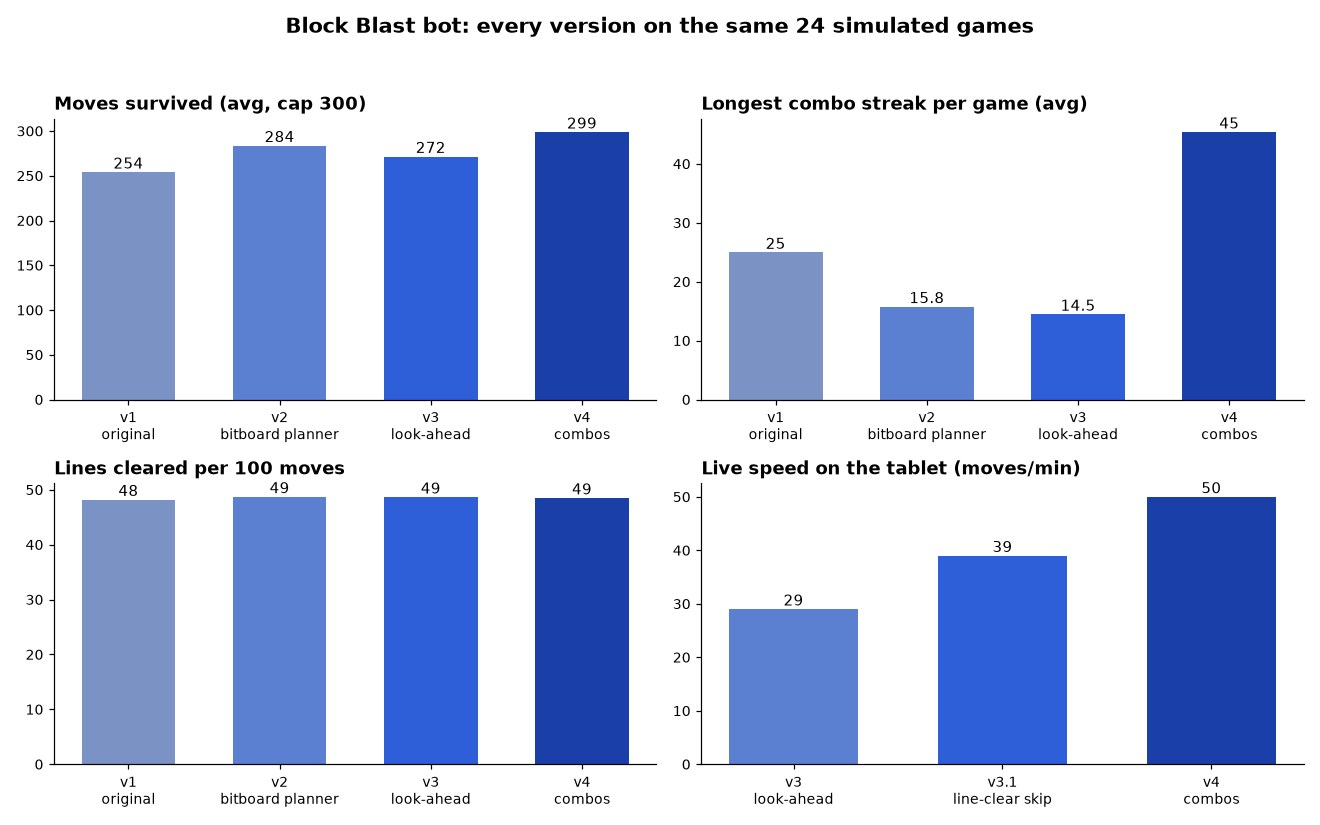
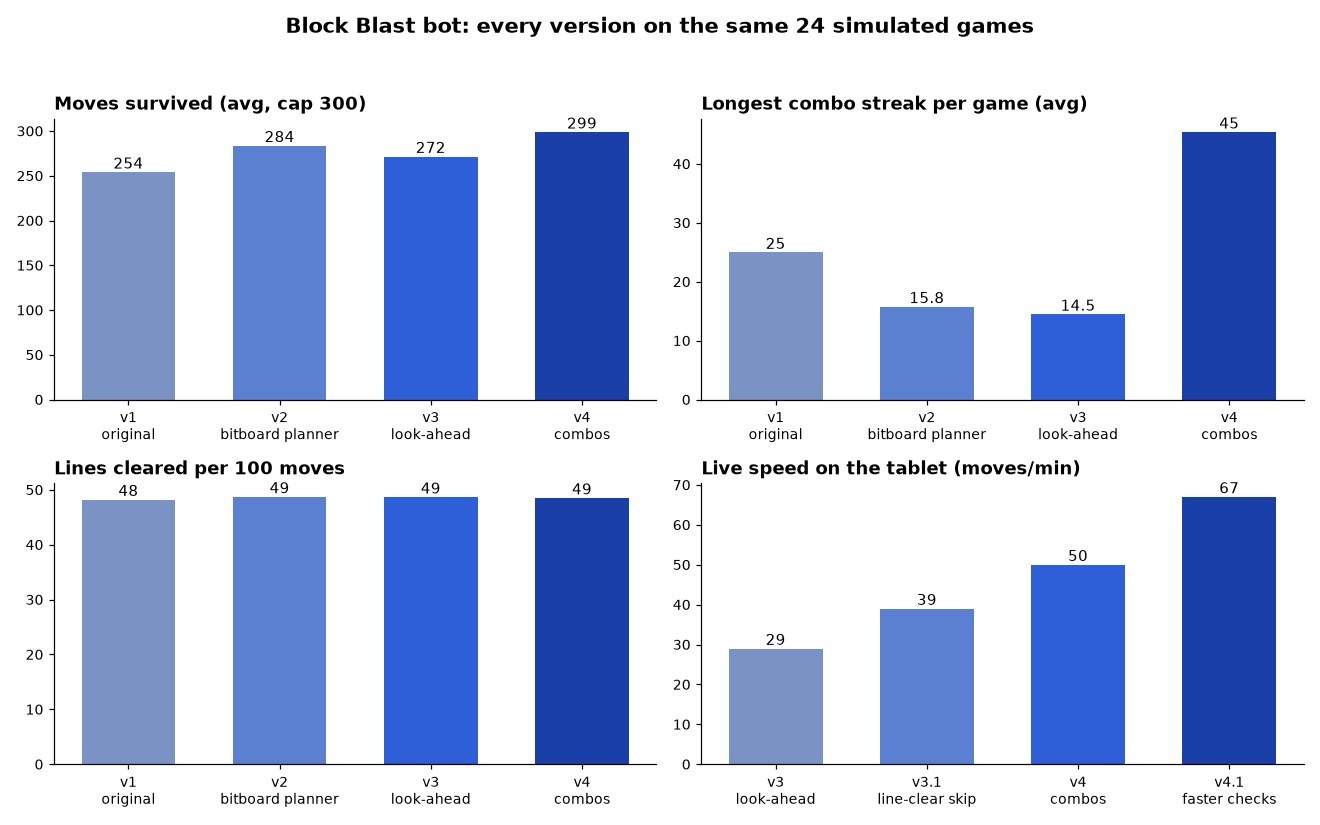
v4.1: ~67 moves/min with no pauses
- Combo pop-up text no longer makes the board look "off-screen": only the
  visible (flat) cells are compared, so those frames are accepted at once.
- No fixed sleeps on the normal path; the new tray is read from the check's
  own screenshot.
- Swipes go through one long-lived adb shell (~1 ms instead of ~50 ms).
- Log timestamps show tenths of a second.

300 live moves: 67 moves/min, no retries or misplaced pieces, longest gap
between log lines 2.8 s. Benchmark chart and README updated.

diff --git a/bot.py b/bot.py
@@ -1,4 +1,4 @@
-import argparse, gzip, struct, subprocess, time, sys, re, xml.etree.ElementTree as ET
+import argparse, gzip, queue, struct, subprocess, threading, time, sys, re, xml.etree.ElementTree as ET
 from functools import lru_cache
 import cv2
 import planner
@@ -27,6 +27,28 @@ TRACE=[]
 def adb(*args,timeout=20):
     return subprocess.run(['adb',*map(str,args)],check=True,stdout=subprocess.PIPE,stderr=subprocess.PIPE,timeout=timeout).stdout
 
+class Shell:
+    """One long-lived `adb shell` for input commands: starting a new adb process for
+    every swipe costs ~50 ms. A command that doesn't finish in time kills the shell;
+    the next command starts a fresh one."""
+    def __init__(self): self.proc=None
+    def _start(self):
+        self.proc=subprocess.Popen(['adb','shell'],stdin=subprocess.PIPE,stdout=subprocess.PIPE,
+                                   stderr=subprocess.DEVNULL,bufsize=0)
+        self.lines=queue.Queue(); out=self.proc.stdout
+        threading.Thread(target=lambda:[self.lines.put(l) for l in iter(out.readline,b'')],daemon=True).start()
+    def run(self,cmd,timeout):
+        if self.proc is None or self.proc.poll() is not None: self._start()
+        try:
+            self.proc.stdin.write((cmd+'; echo __done__\n').encode())
+            end=time.time()+timeout
+            while self.lines.get(timeout=max(.01,end-time.time())).strip()!=b'__done__': pass
+        except (queue.Empty,OSError):
+            self.proc.kill(); self.proc=None
+            raise subprocess.TimeoutExpired(cmd,timeout)
+
+SHELL=Shell()
+
 def update_layout():
     global SCALE
     out=adb('shell','dumpsys','window','displays').decode('utf-8','replace')
@@ -53,7 +75,7 @@ def _capture_fast():
     data=gzip.decompress(adb('exec-out','screencap | gzip -1',timeout=4*SLOW))
     w,h=struct.unpack('<II',data[:8]); header=len(data)-w*h*4
     if (w,h)!=(W,H) or not 12<=header<=32: raise ValueError('unexpected raw screenshot')
-    return np.frombuffer(data,np.uint8,offset=header).reshape(H,W,4)[:,:,2::-1].copy()
+    return cv2.cvtColor(np.frombuffer(data,np.uint8,offset=header).reshape(H,W,4),cv2.COLOR_RGBA2BGR)
 
 def _capture_png():
     im=cv2.imdecode(np.frombuffer(adb('exec-out','screencap','-p',timeout=6*SLOW),np.uint8),cv2.IMREAD_COLOR)
@@ -102,6 +124,21 @@ def is_board(im):
     return len(colour_groups(np.array([c for _,c,_ in stats]))[0])>=4
 
 EMPTY_COLOUR=None  # Lab colour of an empty cell in the current theme
+
+def visible_board(im,hint_empty=0):
+    """(board, visible) even when pop-up text (combo, "Great!") covers part of it:
+    visible marks the flat cells that can be trusted. (None, 0) if this isn't the board."""
+    stats=cell_stats(im)
+    flat=[i for i,(_,_,t) in enumerate(stats) if t<=12]
+    if len(flat)<44: return None,0
+    if len(colour_groups(np.array([stats[i][1] for i in flat]))[0])<4: return None,0
+    visible=sum(1<<i for i in flat)
+    return read_board(im,hint_empty&visible),visible
+
+def shows(im,board,ignore=0):
+    """Does the screen show this board (ignoring covered and still-animating cells)?"""
+    b,visible=visible_board(im,FULL&~board&~ignore)
+    return b is not None and not (b^board)&visible&~ignore
 
 def read_board(im,hint_empty=0):
     """Empty cells all share one colour; everything else is a block.
@@ -279,10 +316,14 @@ def choose(board,pieces,avoid=frozenset()):
 
 def drag_piece(sx, sy, dx, dy, ms):
     # A single continuous swipe; the game moves the held piece GAIN x the finger.
-    adb('shell','input','swipe',*to_screen(sx,sy),*to_screen(dx,dy),ms,timeout=ms/1000+8)
+    cmd='input swipe %d %d %d %d %d'%(*to_screen(sx,sy),*to_screen(dx,dy),ms)
+    try: SHELL.run(cmd,ms/1000+3*SLOW)
+    except subprocess.TimeoutExpired:
+        adb('shell',cmd,timeout=ms/1000+8)
 
 def log(*parts):
-    print(time.strftime('%H:%M:%S'),*parts,flush=True)
+    t=time.time()
+    print(time.strftime('%H:%M:%S',time.localtime(t))+'.%d'%(t%1*10),*parts,flush=True)
 
 def show(board,pieces):
     for y in range(8): print(''.join('#' if board>>(y*8+x)&1 else '.' for x in range(8)))
@@ -296,23 +337,27 @@ def settle(before, expected, placed, residual=0, timeout=3.0):
     still be animating; they are ignored. TRACE records each read for the log
     (E expected, B unchanged, o other, - off-board)."""
     end=time.time()+timeout; last=None; im=None
-    cleared=(before|placed)&~expected; outside=FULL&~cleared&~residual; seen=FULL&~residual
+    cleared=(before|placed)&~expected
     while True:
         im=capture()
-        if not is_board(im):
+        b,visible=visible_board(im,FULL&~(before|expected|residual))
+        if b is None:
             TRACE.append('-')
-            # Usually a transient effect (clear animations, combo text); only report
+            # Usually a transient effect (clear animations, big combo text); only report
             # off-board if it persists.
             if time.time()>end: return im,None,False
-            last=None; time.sleep(.1); continue
-        b=read_board(im,FULL&~(before|expected|residual))
-        TRACE.append('E' if b==expected else 'B' if b&seen==before&seen else 'o')
-        if b==expected: return im,b,False
-        if cleared|residual and b&seen!=before&seen and b&outside==expected&outside: return im,expected,True
+            last=None; continue
+        # Cells hidden by pop-up text or still animating from earlier clears are ignored.
+        seen=visible&~residual; outside=seen&~cleared
+        full=seen==FULL&~residual
+        same_as_expected=not (b^expected)&seen
+        TRACE.append(('E' if full else 'e') if same_as_expected else 'B' if not (b^before)&seen else 'o')
+        if same_as_expected: return im,expected,not full or bool(residual)
+        if cleared|residual and (b^before)&seen and not (b^expected)&outside: return im,expected,True
         # A changed board read twice in a row is final (clear animations differ from both).
-        if b&seen!=before&seen and b==last: return im,b,False
-        if time.time()>end: return im,b,False
-        last=b
+        if full and (b^before)&seen and b==last: return im,b,False
+        if time.time()>end: return im,(b if full else None),False
+        last=b if full else None
 
 def save_unknown(im):
     import os
@@ -331,31 +376,42 @@ def main():
     clears=[]  # (cells, time) of recent line clears, which animate for ~1.5 s
     since=planner.COMBO_WINDOW  # placements since the last clear (combo streak tracking)
     carry=None  # tray pieces still to place after an unchecked move
+    pieces_known=False
     while turn<args.max_moves:
         if carry is not None:
             # Mid-tray: the board is known from the plan, so no screenshot is needed.
-            board,pieces=trusted,carry; carry=None
+            board,pieces=trusted,carry; carry=None; pieces_known=True
             by_slot={p['slot']:p for p in pieces}
         else:
             if im is None: im=capture()
             board=None
+            if trusted is not None:
+                # Known board (lines may still be clearing, text may cover part of it):
+                # just confirm the visible cells agree.
+                clears=[(m,t) for m,t in clears if t>time.time()-2.5]
+                if shows(im,trusted,sum(m for m,_ in clears)): board=trusted
+                else: trusted=None
         if board is None and not is_board(im):
             if not args.play: print('Not on the game board.'); return
             unknown_count+=1; plan_seq=[]; im=None; trusted=None; clears=[]
             # Never tap anything until the screen has been unrecognised for a few reads.
-            if unknown_count<5: time.sleep(.4); continue
+            if unknown_count<5: time.sleep(.1); continue
             if unknown_count==5: save_unknown(capture())
             recover_screen(capture(),unknown_count); continue
         unknown_count=0
-        if board is None:
-            board=trusted if trusted is not None else read_board(im)
+        if pieces_known:
+            pieces_known=False
+        else:
+            if board is None: board=read_board(im)
             try: pieces=read_pieces(im)
             except RuntimeError as e:
+                # Usually new pieces sliding in; a new theme if it lasts.
                 tray_errors+=1
-                if tray_errors==20: save_unknown(im)  # a new theme to calibrate
-                log(str(e),'Waiting for screen to settle.'); time.sleep(.15); im=None; continue
+                if tray_errors==20: save_unknown(im)
+                if tray_errors>3: log(str(e),'Waiting for screen to settle.')
+                im=None; continue
             tray_errors=0
-            if not pieces: log('Waiting for pieces or game-over screen.'); time.sleep(.3); im=None; plan_seq=[]; continue
+            if not pieces: log('Waiting for pieces or game-over screen.'); time.sleep(.1); im=None; plan_seq=[]; continue
             by_slot={p['slot']:p for p in pieces}
         if board!=failed_board: failed_board=board; failed_moves.clear()
         # Keep following the tray's plan while the board matches it; otherwise re-plan.
@@ -364,8 +420,9 @@ def main():
         if not following:
             # New tray pieces animate in and can be misread mid-animation;
             # plan only from two consecutive screenshots that agree.
-            time.sleep(.15); im2=capture()
-            try: same=(is_board(im2) and (trusted is not None or read_board(im2)==board) and
+            im2=capture()
+            res=sum(m for m,t in clears if t>time.time()-2.5)
+            try: same=((shows(im2,board,res) if trusted is not None else is_board(im2) and read_board(im2)==board) and
                        [(p['slot'],p['cells']) for p in read_pieces(im2)]==[(p['slot'],p['cells']) for p in pieces])
             except RuntimeError: same=False
             if not same: im=im2; continue

diff --git a/bench.py b/bench.py
@@ -29,7 +29,8 @@ VERSIONS = [
 ]
 # Measured on the tablet (moves/min from bot.log over 100+ moves). None = not measured.
 LIVE_SPEED = {'v1 original': None, 'v2 bitboard planner': None, 'v3 look-ahead': 29,
-              'v3.1 line-clear skip': 39, 'v4 combos': 50}
+              'v3.1 line-clear skip': 39, 'v4 combos': 50,
+              'v4.1 faster checks': 67}
 
 WINDOW = current.COMBO_WINDOW
 

diff --git a/CLAUDE.md b/CLAUDE.md
@@ -17,16 +17,17 @@ Plays Block Blast (Classic) on a USB-connected Android tablet (2880x1800 landsca
 - If "no legal moves" lasts 30 s without a result screen, the screen is misread: it is saved and normal recovery runs. Any exception is logged and the loop restarts after `adb wait-for-device`.
 - New tray pieces animate in; the bot only plans from two consecutive screenshots that agree.
 - All coordinates assume the game fills the full 1800 px height. With the tablet's 3-button navigation bar on, the app gets 1682 px and the game shrinks around x=1440; `update_layout` reads `mAppBounds` from `dumpsys window displays` (at startup and on recovery), `capture` scales screenshots back, and `tap`/`drag_piece` scale input with `to_screen`.
+- Speed (v4.1, ~67 moves/min): swipes go through one long-lived `adb shell` (`SHELL`), so they cost ~1 ms of overhead instead of ~50 ms. Combo pop-up text covers some cells; `visible_board`/`shows` compare only the flat (visible) cells, so these frames aren't treated as off-board (`e` in the trace = matched with some cells hidden). There are no fixed sleeps on the normal path; a screenshot (~0.4 s) is the only wait. Swipes are still 300 ms: 69/min was reached without risking shorter drags.
 - Pieces of one tray are swiped back to back (`carry`); only the tray's last piece is checked with `settle`. A miss earlier in the tray shows up there and triggers a re-read and re-plan.
 - Combos: `since` counts placements since the last clear and is passed to `planner.plan`; the streak breaks after 3 placements without a clear (`COMBO_WINDOW`). Combo pop-up text briefly hides the board (`-` in the trace).
-- Line clears animate for ~1.5 s. `settle` accepts a move once everything outside the clearing lines matches (`early`), and the main loop plays on from that expected board (`trusted`), ignoring recently cleared cells (`clears`) in the next checks. Each move logs `swipe Xs, check Ys` plus a trace of the reads (E expected, B unchanged, o other, - off-board).
+- Line clears animate for ~1.5 s. `settle` accepts a move once everything outside the clearing lines matches (`early`), and the main loop plays on from that expected board (`trusted`), ignoring recently cleared cells (`clears`) in the next checks. Each move logs `swipe Xs, check Ys` plus a trace of the reads (E expected, e expected with some cells hidden, B unchanged, o other, - off-board).
 - Fast capture: `screencap | gzip -1` raw (≈0.35 s) with PNG fallback (≈0.75 s). screencap occasionally hangs on the tablet; each attempt has a 4–6 s timeout (the process is killed) and is retried, so a hang costs seconds, not the old 27 s freeze.
 
 ## Connection
 - `adbwifi.py` picks USB if plugged in, else wireless debugging (one-time `python adbwifi.py pair`). The bot waits for the tablet to come back after errors (e.g. flat battery). Screenshot timeouts are 3x longer over Wi-Fi (`SLOW`). Shared copy of `../arrows bot/adbwifi.py`; keep in sync.
 
 ## Working on it
-- **Every new version must update the benchmark**: add it to `VERSIONS` in `bench.py` (label + commit; the working tree is `None` until committed, then pin the commit), put its measured live moves/min (from `bot.log`, 100+ moves) in `LIVE_SPEED`, rerun `python bench.py`, add a row to the README's version table, and commit `benchmark.jpg` and `bench-results.json` with the change.
+- **Every new version must update the benchmark**: add it to `VERSIONS` in `bench.py` (label + commit; the working tree is `None` until committed, then pin the commit), put its measured live moves/min (from `bot.log`, 100+ moves) in `LIVE_SPEED` (a speed-only version with the same planner goes only in `LIVE_SPEED`), rerun `python bench.py`, add a row to the README's version table, and commit `benchmark.jpg` and `bench-results.json` with the change.
 - The game is often live: don't stop a running bot unless the user says so. Code changes only take effect after a restart.
 - Run live tests detached (`start-bot.ps1`); a foreground run dies when the tool call is interrupted.
 - Unrecognised screens are saved to `unknown-screens/` for calibration.

diff --git a/README.md b/README.md
@@ -17,6 +17,7 @@ Every planner version plays the same simulated games (`python bench.py`); live s
 | v3 look-ahead | Samples likely future trays when the board fills up; learns each colour theme. |
 | v3.1 line-clear skip | Doesn't wait for line-clear animations; works with the navigation bar shown. |
 | v4 combos | Keeps combo streaks alive; swipes a whole tray and checks the board once per tray. |
+| v4.1 faster checks | Reads the board through combo pop-up text, no fixed waits, one long-lived adb shell for swipes (same planner as v4). |
 
 ## How it works
 
